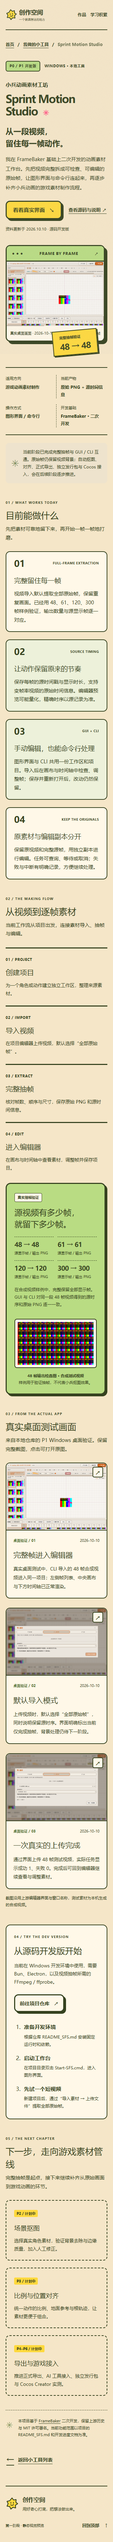
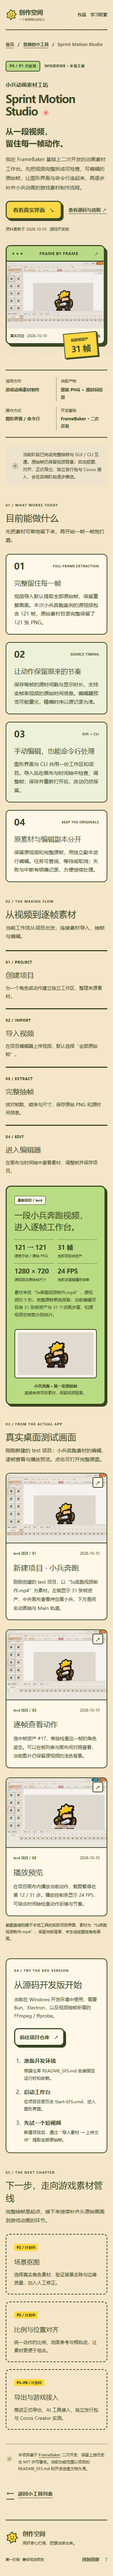
fix: replace studio demo with latest real project

diff --git a/app/tools/sprint-motion-studio/page.tsx b/app/tools/sprint-motion-studio/page.tsx
@@ -14,7 +14,7 @@ export const metadata: Metadata = {
 };
 
 const capabilities = [
-  { number: "01", title: "完整留住每一帧", text: "视频导入默认提取全部原始帧，保留重复画面。已经用 48、61、120、300 帧样例验证，输出数量与源显示帧逐一对应。", tag: "FULL-FRAME EXTRACTION" },
+  { number: "01", title: "完整留住每一帧", text: "视频导入默认提取全部原始帧，保留重复画面。本次小兵奔跑案例的源视频包含 121 帧，原始素材目录完整保留了 121 张 PNG。", tag: "FULL-FRAME EXTRACTION" },
   { number: "02", title: "让动作保留原来的节奏", text: "保存每帧的源时间戳与显示时长，支持变帧率视频的原始时间信息。编辑器预览可能量化，精确时序以源记录为准。", tag: "SOURCE TIMING" },
   { number: "03", title: "手动编辑，也能命令行处理", text: "图形界面与 CLI 共用一份工作区和项目。导入后在画布与时间轴中检查、调整帧；保存并重新打开后，改动仍然保留。", tag: "GUI + CLI" },
   { number: "04", title: "原素材与编辑副本分开", text: "保留原视频和完整源帧，用独立副本进行编辑。任务可查询、等待或取消；失败与中断有明确记录，方便继续处理。", tag: "KEEP THE ORIGINALS" },
@@ -28,9 +28,9 @@ const workflow = [
 ];
 
 const screenshots = [
-  { file: "editor.png", title: "完整帧进入编辑器", text: "真实桌面测试中，CLI 导入的 48 帧合成视频进入同一项目；左侧帧列表、中央画布与下方时间轴已正常渲染。", alt: "真实桌面编辑器：48帧合成测试视频的帧列表、中央彩条画布及逐帧时间轴" },
-  { file: "import-defaults.png", title: "默认导入模式", text: "上传视频时，默认选择“全部原始帧”，同时说明保留源时序。界面明确标出当前仅完成抽帧，背景处理仍待下一阶段。", alt: "真实导入弹窗：全部原始帧默认选项、保留源帧与源时序说明、P2抠图待准备提示" },
-  { file: "upload-complete.png", title: "一次真实的上传完成", text: "通过界面上传 48 帧测试视频，实际任务显示成功 1、失败 0。完成后可回到编辑器继续查看与调整素材。", alt: "真实GUI视频上传完成：已选择48帧合成样例，全部原始帧模式，成功1与失败0" },
+  { file: "test-project-editor.png", title: "新建项目 · 小兵奔跑", text: "刚刚创建的 test 项目，以“5s奔跑视频制作.mp4”为素材。左侧显示 31 张帧资产，中央画布查看持剑盾小兵，下方是同名动画轴与 Main 轨道。", alt: "test 项目的真实编辑界面：31张小兵奔跑帧资产、角色画布及5s奔跑视频制作动画轴" },
+  { file: "test-project-frame.png", title: "逐帧查看动作", text: "选中帧资产 #17，单独检查这一帧的角色姿态。可以在帧列表与画布间对照查看，当前图片仍保留源视频的浅色背景。", alt: "test 项目中选中第17张帧资产，画布展示持剑盾小兵的奔跑姿态" },
+  { file: "test-project-preview.png", title: "播放预览", text: "在项目画布内播放当前动作，截图暂停在第 12 / 31 步。播放控制条显示 24 FPS，可结合时间轴检查动作衔接与节奏。", alt: "test 项目的小兵奔跑播放预览，控制条显示24 FPS与第12步共31步" },
 ];
 
 export default function SprintMotionStudioPage() {
@@ -61,9 +61,9 @@ export default function SprintMotionStudioPage() {
             </div>
             <figure className={styles.heroVisual}>
               <div className={styles.windowBar}><span aria-hidden="true">● ● ●</span><span>FRAME BY FRAME</span><span aria-hidden="true">↗</span></div>
-              <Image src={`${assetRoot}/editor.png`} alt="Sprint Motion Studio真实桌面测试，展示48帧合成样例在逐帧编辑器中的画布与时间轴" width={1360} height={900} unoptimized loading="eager" />
-              <figcaption><span>真实桌面画面 · 2026-10-10</span><span>合成样例 / 48 帧</span></figcaption>
-              <div className={styles.sticker}><span>完整抽帧验证</span><strong>48 → 48</strong></div>
+              <Image src={`${assetRoot}/test-project-editor.png`} alt="Sprint Motion Studio中刚创建的test项目，展示小兵奔跑帧资产、角色画布及动画轴" width={1600} height={1100} unoptimized loading="eager" />
+              <figcaption><span>真实项目 · 2026-10-10</span><span>test / 小兵奔跑</span></figcaption>
+              <div className={styles.sticker}><span>当前帧资产</span><strong>31 帧</strong></div>
             </figure>
           </header>
 
@@ -85,18 +85,18 @@ export default function SprintMotionStudioPage() {
             <div className={styles.sectionHeading}><span className="section-kicker">02 / THE MAKING FLOW</span><h2 id="workflow-title">从视频到逐帧素材</h2><p>当前工作流从项目出发，连接素材导入、抽帧与编辑。</p></div>
             <ol className={styles.workflow}>{workflow.map((step) => <li key={step.hint}><span>{step.hint}</span><h3>{step.title}</h3><p>{step.text}</p></li>)}</ol>
             <div className={styles.evidence}>
-              <div className={styles.evidenceCopy}><span className={styles.badge}>真实抽帧验证</span><h3>源视频有多少帧，<br />就留下多少帧。</h3><div className={styles.frameCounts}>{[48, 61, 120, 300].map((count) => <span key={count}><strong>{count} → {count}</strong><small>源显示帧 / 输出 PNG</small></span>)}</div><p>在合成视频样例中，完整保留全部显示帧。GUI 与 CLI 对同一段 48 帧视频得到的源时序和原始 PNG 逐一一致。</p></div>
-              <figure className={styles.contactSheet}><a href={`${assetRoot}/all-48-frames.png`} target="_blank" rel="noopener noreferrer" aria-label="打开48帧抽取结果原图（新标签页）"><Image src={`${assetRoot}/all-48-frames.png`} alt="合成视频的48张原始PNG按帧索引排列，彩条与时间变化连续保留；这不是小兵动作素材" width={512} height={288} unoptimized /></a><figcaption>48 帧输出检查图 · 合成测试视频<br /><span>样例用于验证抽帧，不代表小兵抠图效果。</span></figcaption></figure>
+              <div className={styles.evidenceCopy}><span className={styles.badge}>最新项目 / test</span><h3>一段小兵奔跑视频，<br />进入逐帧工作台。</h3><div className={styles.frameCounts}><span><strong>121 → 121</strong><small>源显示帧 / 原始 PNG</small></span><span><strong>31 帧</strong><small>当前项目帧资产</small></span><span><strong>1280 × 720</strong><small>源视频与原始帧尺寸</small></span><span><strong>24 FPS</strong><small>当前动画轴播放帧率</small></span></div><p>素材来自“5s奔跑视频制作.mp4”，源视频约 5 秒。完整源帧单独保留；当前编辑项目有 31 张帧资产与 31 个动画步骤，和源视频总帧数分别统计。</p></div>
+              <figure className={styles.contactSheet}><a href={`${assetRoot}/test-project-source-frame.png`} target="_blank" rel="noopener noreferrer" aria-label="打开小兵奔跑原始帧原图（新标签页）"><Image src={`${assetRoot}/test-project-source-frame.png`} alt="5s奔跑视频制作素材的第一张原始PNG，浅色背景上是一名持剑盾的金发小兵" width={1280} height={720} unoptimized /></a><figcaption>小兵奔跑 · 第一张原始帧<br /><span>直接来自项目素材，保留视频背景。</span></figcaption></figure>
             </div>
           </section>
 
           <section id="screenshots" className={styles.section} aria-labelledby="screenshots-title">
-            <div className={styles.sectionHeading}><span className="section-kicker">03 / FROM THE ACTUAL APP</span><h2 id="screenshots-title">真实桌面测试画面</h2><p>来自本地仓库的 P1 Windows 桌面验证。保留完整截图，点击可打开原图。</p></div>
+            <div className={styles.sectionHeading}><span className="section-kicker">03 / FROM THE ACTUAL APP</span><h2 id="screenshots-title">真实桌面测试画面</h2><p>刚刚新建的 test 项目：小兵奔跑素材的编辑、逐帧查看与播放预览。点击可打开完整原图。</p></div>
             <div className={styles.gallery}>{screenshots.map((shot, index) => <figure className={styles.screenshot} key={shot.file}>
-              <a href={`${assetRoot}/${shot.file}`} target="_blank" rel="noopener noreferrer" aria-label={`打开${shot.title}原图（新标签页）`}><Image src={`${assetRoot}/${shot.file}`} alt={shot.alt} width={1360} height={900} unoptimized /><span className={styles.expand} aria-hidden="true">↗</span></a>
-              <figcaption><div className={styles.shotMeta}><span>桌面验证 / 0{index + 1}</span><time dateTime="2026-10-10">2026-10-10</time></div><h3>{shot.title}</h3><p>{shot.text}</p></figcaption>
+              <a href={`${assetRoot}/${shot.file}`} target="_blank" rel="noopener noreferrer" aria-label={`打开${shot.title}原图（新标签页）`}><Image src={`${assetRoot}/${shot.file}`} alt={shot.alt} width={1600} height={1100} unoptimized /><span className={styles.expand} aria-hidden="true">↗</span></a>
+              <figcaption><div className={styles.shotMeta}><span>test 项目 / 0{index + 1}</span><time dateTime="2026-10-10">2026-10-10</time></div><h3>{shot.title}</h3><p>{shot.text}</p></figcaption>
             </figure>)}</div>
-            <p className={styles.captionNote}>截图沿用上游编辑器界面与窗口名称，测试素材为本机生成的合成视频。</p>
+            <p className={styles.captionNote}>截图直接拍摄于本地工具的实际项目界面，素材为“5s奔跑视频制作.mp4”；保留当前背景，未生成或重绘角色画面。</p>
           </section>
 
           <section id="getting-started" className={styles.section} aria-labelledby="getting-started-title">

diff --git a/data/projects.ts b/data/projects.ts
@@ -137,15 +137,15 @@ export const projects: Project[] = [{
   subtitle: "小兵动画素材工坊",
   typeLabel: "动画素材工具",
   detailLabel: "查看工具介绍",
-  coverCaption: "真实桌面测试 · 2026-10-10",
+  coverCaption: "test 项目 · 小兵奔跑实拍",
   category: "tools",
   description: "基于 FrameBaker 二次开发的动画素材工作台。完整提取视频中的每一帧，保留源时间信息，让图形界面与命令行共用一份项目，逐步走向游戏动画素材制作。",
   status: "P0 / P1 开发版",
   cover: {
-    src: "/images/tools/sprint-motion-studio/editor.png",
-    alt: "Sprint Motion Studio 真实编辑器测试：48帧合成样例、中央Pixi画布和下方逐帧时间轴",
-    width: 1360,
-    height: 900,
+    src: "/images/tools/sprint-motion-studio/test-project-editor.png",
+    alt: "Sprint Motion Studio 的 test 项目：31张小兵奔跑帧资产、角色画布与动画时间轴",
+    width: 1600,
+    height: 1100,
   },
   detailHref: "/tools/sprint-motion-studio/",
   links: [{ href: "https://github.com/wzh20010805-boop/Sprint-Motion-Studio", label: "查看源码与说明" }],

diff --git a/docs/sprint-motion-studio-showcase.md b/docs/sprint-motion-studio-showcase.md
@@ -6,7 +6,7 @@
 
 用户确认采用本地仓库中的名称 Sprint Motion Studio，添加“小工具”卡片和独立详情页，沿用网站风格，展示当前功能、使用流程、真实测试画面及后续计划。
 
-本地资料来自 `D:/AIJOB/tools/Sprite Motion Studio/framebaker/`；本次没有修改工具工程、工作区数据或源素材。该工程的 origin 为 `https://github.com/wzh20010805-boop/Sprint-Motion-Studio.git`，上游为 FrameBaker。网页提供配置中的源码入口，没有虚构独立下载包。
+本地资料来自 `D:/AIJOB/tools/Sprite Motion Studio/framebaker/`；本次没有修改工具工程、项目帧、时间轴内容或源素材。该工程的 origin 为 `https://github.com/wzh20010805-boop/Sprint-Motion-Studio.git`，上游为 FrameBaker。网页提供配置中的源码入口，没有虚构独立下载包。
 
 ## 内容依据
 
@@ -19,21 +19,29 @@
 
 页面使用 P0/P1 开发版作为展示阶段，未将上游 package.json 的 0.5.0 作为本工具独立发行版本。没有把上游骨骼编辑、场景分层、云生成与宽权限 MCP 宣称为当前开发入口已开放。
 
-## 真实图片
+## 最新真实项目案例
 
-所有图片直接复制，不裁剪、重绘或生成。
+用户要求把合成测试案例替换为刚刚新建的项目。案例取自默认工作区中最新项目 `test`（ID `ab89e225-ec8a-4ecf-bd05-ef0956e95ad5`），素材名称为 `5s奔跑视频制作.mp4`。数据库通过 SQLite 只读连接核对，读取时包含实时 WAL。
 
-| 网页图片 | 工具仓库源文件 | 尺寸 |
+- 源视频：1280 × 720，24 FPS，约 5.04 秒，121 个源显示帧；原始源素材目录确有 121 张 PNG。
+- 当前项目：31 张 ready 帧资产，动画轴 `5s奔跑视频制作`、Main 轨道、31 个动画步骤、24 FPS。
+- 源帧总数与当前编辑素材分别展示，不将 31 张资产误称为完整抽帧结果。
+- 本地实际服务中打开项目，查看第 17 张资产并播放预览，暂停在第 12 / 31 步拍摄。没有重新导入视频或修改项目；拍摄前后项目修订号均为 6680。
+- 为完整展示时间轴，拍摄时通过界面调整面板尺寸；最终拍摄会话拦截布局持久化请求，仅改变该浏览器的显示布局。
+
+截图直接来自实际工具界面；原始帧直接复制，不裁剪、重绘或生成。
+
+| 网页图片 | 内容 | 尺寸 |
 | --- | --- | --- |
-| `editor.png` | `docs/evidence/p1/desktop-live/desktop-p1-editor.png` | 1360 × 900 |
-| `import-defaults.png` | `docs/evidence/p1/desktop-live/desktop-p1-import-defaults.png` | 1360 × 900 |
-| `upload-complete.png` | `docs/evidence/p1/desktop-live/desktop-p1-upload-complete.png` | 1360 × 900 |
-| `all-48-frames.png` | `docs/evidence/p1/extraction-contact-cfr48.png` | 512 × 288 |
+| `test-project-editor.png` | 最新 test 项目的编辑器全景 | 1600 × 1100 |
+| `test-project-frame.png` | 第 17 张小兵奔跑帧资产 | 1600 × 1100 |
+| `test-project-preview.png` | 24 FPS 播放预览，暂停在 12 / 31 步 | 1600 × 1100 |
+| `test-project-source-frame.png` | 当前项目第一张原始帧 PNG | 1280 × 720 |
 
-网页图片目录：`public/images/tools/sprint-motion-studio/`。截图保留上游编辑器外观，页面明确标记 2026-10-10 桌面验证及合成素材范围。
+网页图片目录：`public/images/tools/sprint-motion-studio/`。工具列表封面、详情页主图、案例说明和三张截图均已换为本次真实项目；原始视频背景仍然保留。
 
 ## 检查
 
-`scripts/check-sprint-motion-studio.mjs` 验证首页两个工具的计数、实际卡片跳转、详情刷新、原有工具导航、三张桌面截图及抽帧检查图加载、原图打开、页面锚点和四种宽度布局；输出至 `docs/checks/sprint-motion-studio/`。
+`scripts/check-sprint-motion-studio.mjs` 验证首页两个工具的计数、实际卡片跳转、详情刷新、原有工具导航、三张真实项目截图及原始帧加载、真实案例来源文案、原图打开、页面锚点和四种宽度布局；输出至 `docs/checks/sprint-motion-studio/`。
 
 既有 `check-content-pages.mjs` 更新工具数量为 2，并将原工具截图检查限定到像素光标卡片，继续验证六分类和现有详情页。另执行 typecheck、lint 与静态构建。
